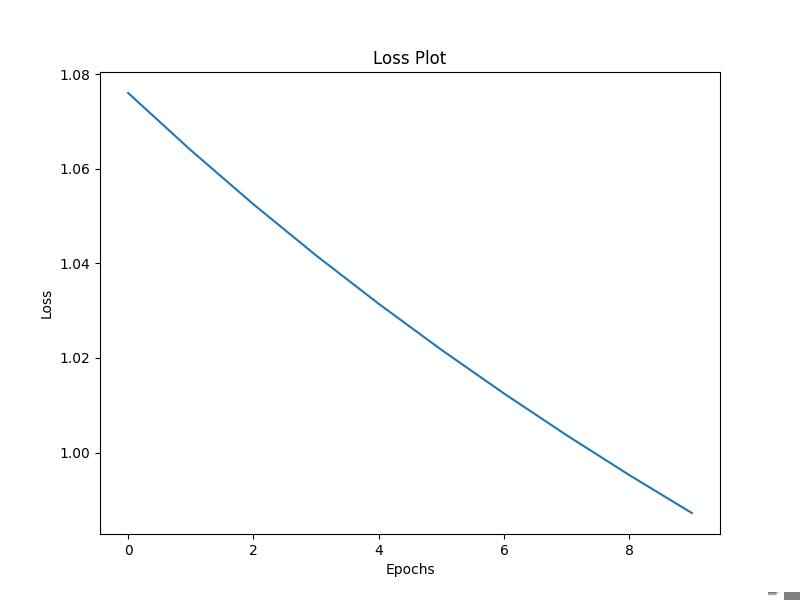
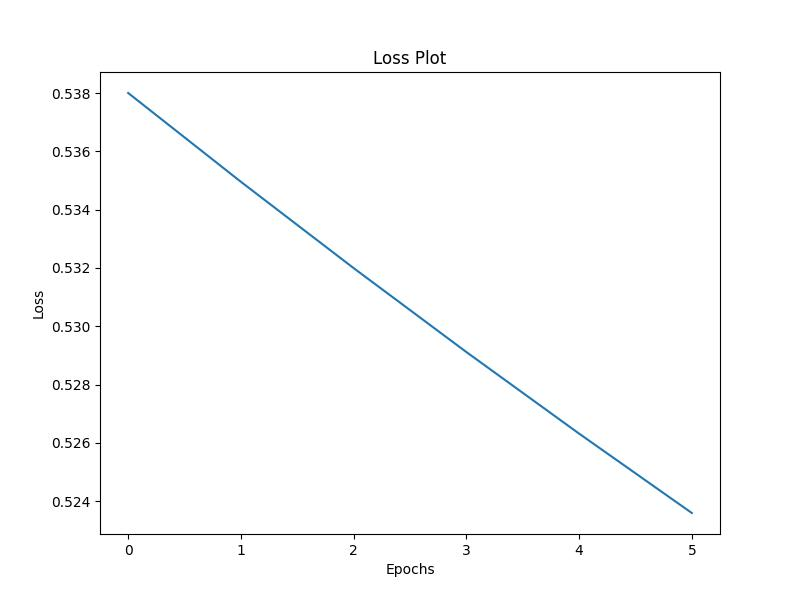
final edit

diff --git a/Assignment-1/Assignment-1/main.py b/Assignment-1/Assignment-1/main.py
@@ -3,7 +3,7 @@ import pickle
 from autoDiff import Variable, Bias, Linear, RegressionLoss
 import matplotlib.pyplot as plt
 
-N_EPOCHS = 10
+N_EPOCHS = 5
 BATCH_SIZE = 200
 LEARNING_RATE = 0.01
 
@@ -121,18 +121,20 @@ def train(n_epochs, batch_size, learning_rate,printGradientFirstLayer):
 
 
     # Printing last loss
-    # y = linear1.forward(x)
-    # y = linear2.forward(y)
-    # y = linear3.forward(y)
-    #
-    # loss_value = loss.forward(y_true, y)
-    # print(loss_value)
+    y = linear1.forward(x)
+    y = linear2.forward(y)
+    y = linear3.forward(y)
+
+    loss_value = loss.forward(y_true, y).value
+    losses.append(loss_value)
+
 
     print(losses)
     # PrintGradients(linear1,linear2,linear3)
-    # Plot(losses)
+    Plot(losses)
 
 
 if __name__ == "__main__":
-    # train(N_EPOCHS, 1, LEARNING_RATE,True)
+    train(N_EPOCHS, 1, LEARNING_RATE,True)
+    print("\n\n")
     train(N_EPOCHS,BATCH_SIZE,LEARNING_RATE,False)

diff --git a/Assignment-1/Assignment-1/SimpleLinearRegression.py b/Assignment-1/Assignment-1/SimpleLinearRegression.py
@@ -1,0 +1,29 @@
+import numpy as np
+from autoDiff import Variable,MatrixMul,RegressionLoss,Add,Bias
+
+# Input variables
+x = np.array([[1,2],[2,3],[3,4]])
+y = np.array([[3.5],[2],[1]])
+
+# Parameters
+x_variable = Variable(x.shape,x,requires_grad=False)
+y_variable = Variable(y.shape,y,requires_grad=False)
+w = Variable((2,1),requires_grad=True,store_gradient=True)
+bias = Bias((1,1),requires_grad=True,store_gradient=True)
+
+#Operators
+matrixMultiplication = MatrixMul()
+add = Add()
+loss = RegressionLoss()
+
+# Forward computaiton
+y_predict = loss.forward(y_variable,add.forward(matrixMultiplication.forward(x_variable,w),bias))
+
+# Backward computation
+y_predict.backward(np.array([[1]]),learning_rate=0.01)
+
+print(w.gradients) # [[-0.9002136477659144], [-1.8244263889590928]]
+
+
+
+

diff --git a/Assignment-1/Assignment-1/autoDiff/variable.py b/Assignment-1/Assignment-1/autoDiff/variable.py
@@ -17,13 +17,14 @@ class Variable:
         """
         self.shape = inputShapes
         self.requires_grad = requires_grad
-        self.data = data.copy()
         self.name = name
+        self.data = data
         self.store_gradient = store_gradient
         if type(self.data) == type(None):
             self.value = np.random.rand(*self.shape)  # 2d vector
         else:
             self.value = data
+            self.data = data.copy()
         if self.store_gradient:
             self.gradients = []
 

diff --git a/Assignment-1/Assignment-1/autoDiff/losses.py b/Assignment-1/Assignment-1/autoDiff/losses.py
@@ -35,7 +35,7 @@ class RegressionLoss:
         :param learning_rate: step size
         :return: None
         """
-        self.dldy = (self.predicted.value - self.original.value) * grad  / self.original.shape[0]
+        self.dldy = (self.predicted.value - self.original.value) * grad / self.original.value.shape[0]
         self.predicted.backward(self.dldy, learning_rate)
 
 
